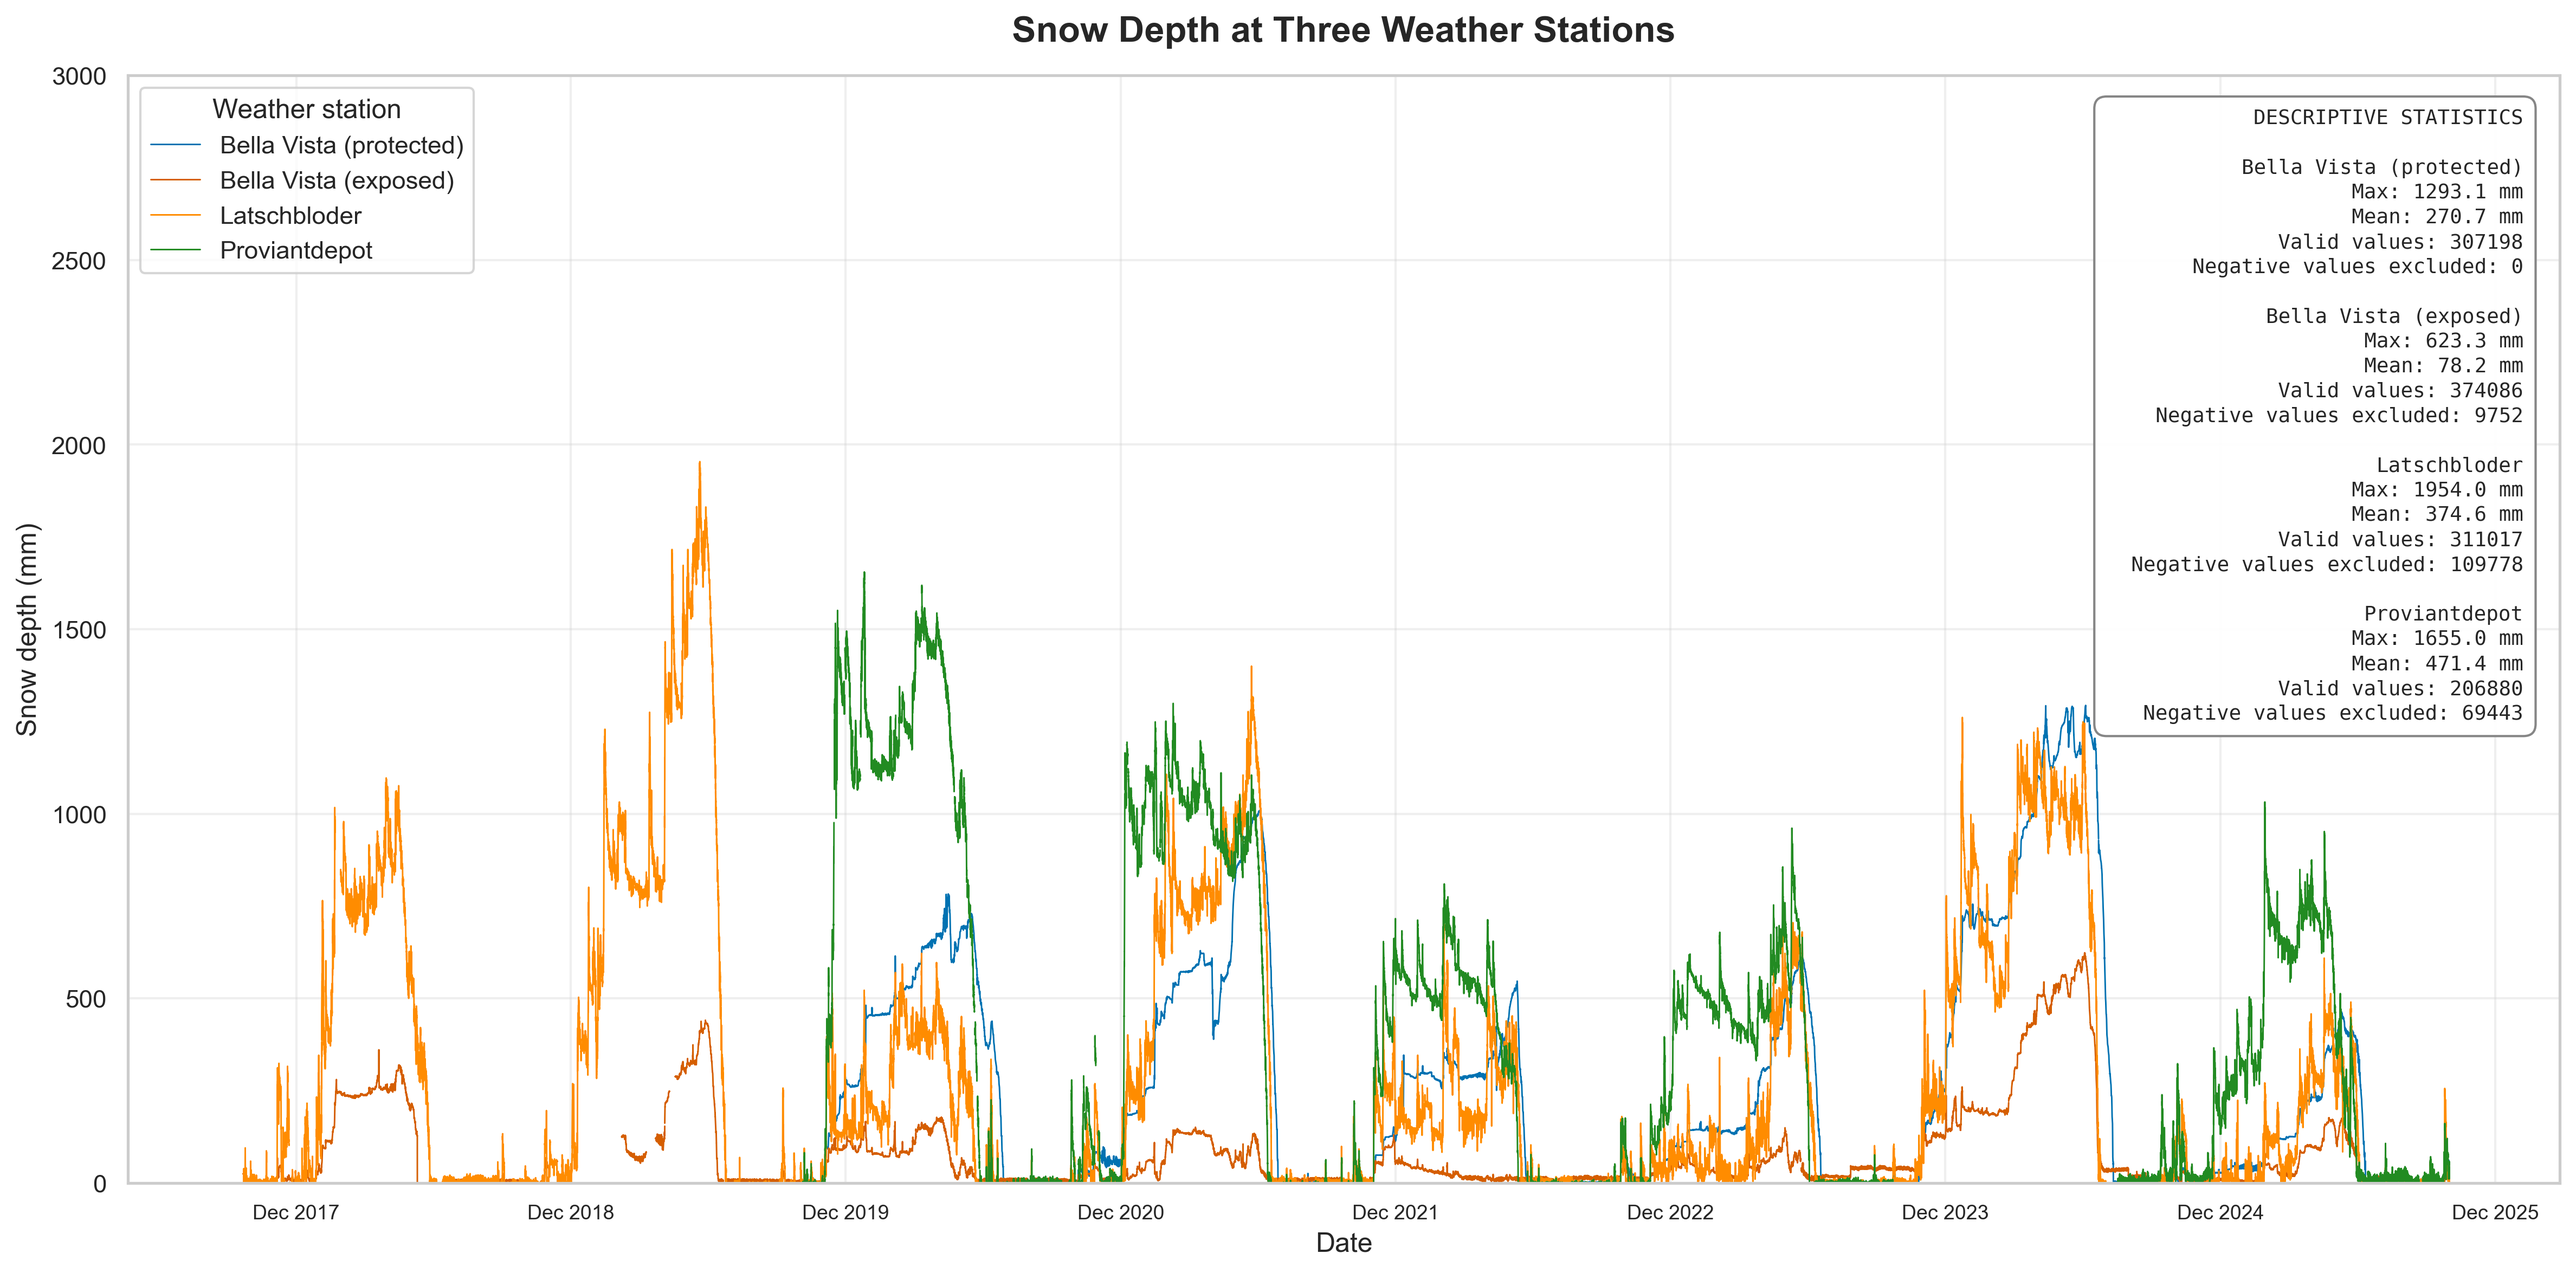
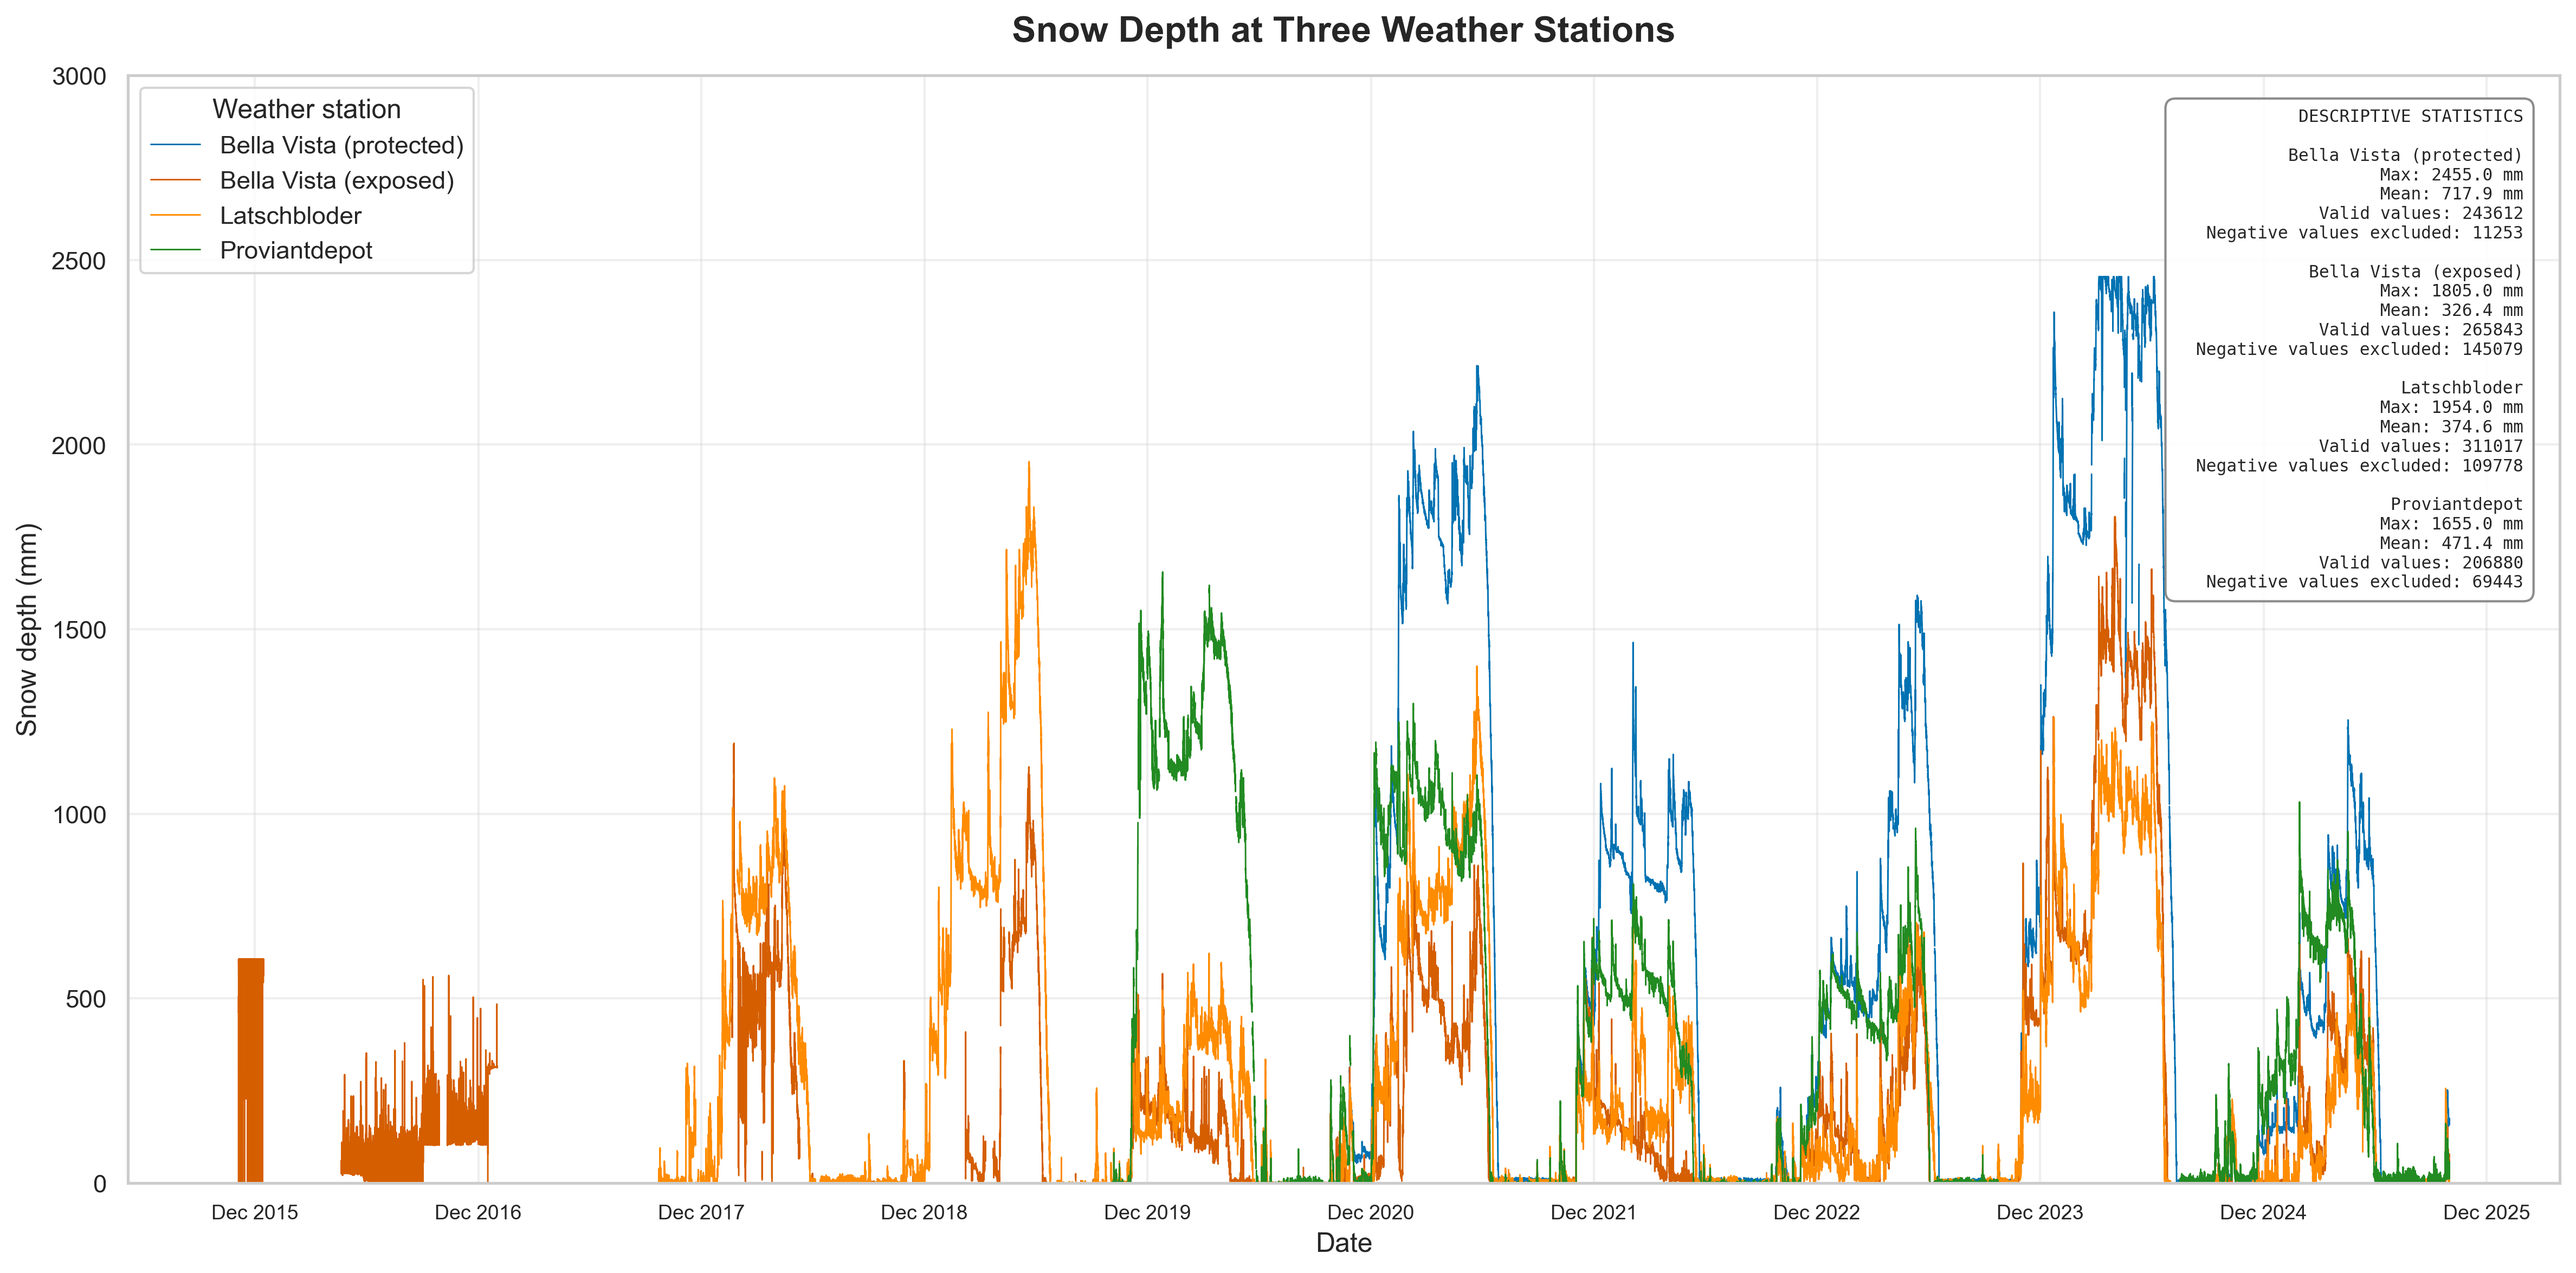
fehler behoben beim Dateneinlesen

diff --git a/test.py b/test.py
@@ -1,0 +1,336 @@
+
+# ============================================================
+# SH-Analysis: Bella Vista (exposed), 2015-2016
+#
+# - Analyses snow depth for the years 2015 and 2016 only
+# - Reads the CSV file from the input directory
+# - Creates an output folder for generated files
+# - Saves the figure as a high-resolution PNG
+# - Parses timestamps and validates measurement columns
+# - Handles duplicate timestamps transparently
+# - Excludes negative measurements
+# - Calculates descriptive statistics for 2015-2016 only
+# - Handles data gaps by interrupting plotted lines
+# - Supports timestamps with and without milliseconds
+# - Plots the snow-depth time series
+# - Displays a compact horizontal statistics box
+# ============================================================
+
+import pandas as pd
+import matplotlib.pyplot as plt
+import matplotlib.dates as mdates
+import seaborn as sns
+from pathlib import Path
+
+# ==================================================
+# 1. SETTINGS
+# ==================================================
+
+sns.set_theme(style="whitegrid")
+
+# Directory containing this Python script
+BASE_DIR = Path(__file__).resolve().parent
+
+# Input and output directories
+DATA_DIR = BASE_DIR / "input"
+OUTPUT_DIR = BASE_DIR / "output"
+OUTPUT_DIR.mkdir(parents=True, exist_ok=True)
+
+TIME_COL = "Date and time"
+
+# Analysis period: 2015 and 2016
+START_DATE = pd.Timestamp("2015-01-01")
+END_DATE = pd.Timestamp("2017-01-01")  # Exclusive
+
+# Expected measurement interval: 10 minutes.
+# Lines are interrupted if the gap exceeds 20 minutes.
+MAX_GAP = pd.Timedelta(minutes=20)
+
+stations = {
+    "Bella Vista (exposed)": {
+        "file": "1_BellaVista_10min_2015-2025.csv",
+        "column": "USH8 snow depth (mm)",
+        "color": "#D55E00",
+    },
+}
+
+
+# ==================================================
+# 2. LOAD, CLEAN AND FILTER DATA
+# ==================================================
+
+data = {}
+statistics = {}
+
+for station, settings in stations.items():
+
+    file_path = DATA_DIR / settings["file"]
+
+    if not file_path.exists():
+        raise FileNotFoundError(
+            f"Input file not found: {file_path}"
+        )
+
+    df = pd.read_csv(file_path)
+
+    # Remove whitespace from column names
+    df.columns = df.columns.str.strip()
+
+    # Check required columns
+    required = [TIME_COL, settings["column"]]
+
+    missing = [
+        col for col in required
+        if col not in df.columns
+    ]
+
+    if missing:
+        raise ValueError(
+            f"{station}: missing columns {missing}\n"
+            f"Available columns: {df.columns.tolist()}"
+        )
+
+    snow_col = settings["column"]
+
+    # --------------------------------------------------
+    # 2.1 Convert timestamps and measurements
+    # --------------------------------------------------
+
+    df[TIME_COL] = pd.to_datetime(
+        df[TIME_COL].astype(str).str.strip(),
+        format="mixed",
+        errors="coerce",
+    )
+
+    df[snow_col] = pd.to_numeric(
+        df[snow_col],
+        errors="coerce",
+    )
+
+    # Count invalid timestamps before removing them
+    invalid_timestamps = int(df[TIME_COL].isna().sum())
+
+    # Remove rows without valid timestamps
+    df = df.dropna(subset=[TIME_COL])
+
+    # --------------------------------------------------
+    # 2.2 Filter to 2015-2016
+    # --------------------------------------------------
+
+    df = df.loc[
+        (df[TIME_COL] >= START_DATE)
+        & (df[TIME_COL] < END_DATE)
+    ].copy()
+
+    # Sort chronologically
+    df = df.sort_values(TIME_COL)
+
+    # Handle duplicate timestamps transparently:
+    # retain the first record for each timestamp
+    duplicate_count = int(
+        df[TIME_COL].duplicated(keep="first").sum()
+    )
+
+    df = df.drop_duplicates(
+        subset=TIME_COL,
+        keep="first",
+    )
+
+    # Set timestamps as index
+    df = df.set_index(TIME_COL)
+
+    # --------------------------------------------------
+    # 2.3 Remove negative snow-depth values
+    # --------------------------------------------------
+
+    negative_count = int((df[snow_col] < 0).sum())
+
+    # Replace negative measurements with NaN
+    # so that they are excluded from statistics and plotting
+    df.loc[df[snow_col] < 0, snow_col] = float("nan")
+
+    snow = df[snow_col]
+
+    # Store filtered and cleaned data
+    data[station] = df
+
+    # --------------------------------------------------
+    # 2.4 Calculate statistics for 2015-2016 only
+    # --------------------------------------------------
+
+    statistics[station] = {
+        "max": snow.max(),
+        "mean": snow.mean(),
+        "valid": int(snow.notna().sum()),
+        "missing": int(snow.isna().sum()),
+        "negative_removed": negative_count,
+        "invalid_timestamps": invalid_timestamps,
+        "duplicates_removed": duplicate_count,
+    }
+
+    # --------------------------------------------------
+    # 2.5 Print data-quality report
+    # --------------------------------------------------
+
+    print(f"\n{'=' * 55}")
+    print(station)
+    print("Analysis period: 2015-01-01 to 2016-12-31")
+    print(f"{'=' * 55}")
+
+    if not df.empty:
+        print(
+            "Available period:",
+            df.index.min(),
+            "to",
+            df.index.max(),
+        )
+    else:
+        print("No records found in the selected period.")
+
+    print("Records after filtering:", len(df))
+    print("Invalid timestamps removed:", invalid_timestamps)
+    print("Duplicate timestamps removed:", duplicate_count)
+    print("Negative snow-depth values excluded:", negative_count)
+    print("Valid snow-depth values:", snow.notna().sum())
+    print("Missing or invalid snow-depth values:", snow.isna().sum())
+
+    if snow.notna().any():
+        print(f"Maximum snow depth: {snow.max():.1f} mm")
+        print(f"Mean snow depth: {snow.mean():.1f} mm")
+    else:
+        print("No valid snow-depth values available.")
+
+
+# ==================================================
+# 3. CREATE TIME-SERIES PLOT
+# ==================================================
+
+fig, ax = plt.subplots(figsize=(16, 8))
+
+for station, df in data.items():
+
+    settings = stations[station]
+    snow_col = settings["column"]
+
+    snow = df[snow_col].copy()
+
+    # Calculate time differences between consecutive records
+    time_gap = df.index.to_series().diff()
+
+    # Interrupt lines after gaps exceeding MAX_GAP
+    snow.loc[time_gap > MAX_GAP] = float("nan")
+
+    # Plot the time series
+    ax.plot(
+        df.index,
+        snow,
+        color=settings["color"],
+        linewidth=0.7,
+        label=station,
+    )
+
+# --------------------------------------------------
+# 3.1 Titles and axis labels
+# --------------------------------------------------
+
+ax.set_title(
+    "Snow Depth at Bella Vista (exposed), 2015-2016",
+    fontsize=16,
+    fontweight="bold",
+    pad=15,
+)
+
+ax.set_xlabel("Date", fontsize=12)
+ax.set_ylabel("Snow depth (mm)", fontsize=12)
+
+# Keep the original y-axis range
+ax.set_ylim(0, 3000)
+
+# Restrict the x-axis to the selected period
+ax.set_xlim(START_DATE, END_DATE)
+
+# Display dates every three months
+ax.xaxis.set_major_locator(
+    mdates.MonthLocator(bymonth=[1, 4, 7, 10])
+)
+
+ax.xaxis.set_major_formatter(
+    mdates.DateFormatter("%b %Y")
+)
+
+ax.tick_params(axis="x", labelsize=9)
+
+ax.legend(
+    loc="upper left",
+    title="Weather station",
+    frameon=True,
+)
+
+ax.grid(True, alpha=0.3)
+
+
+# ==================================================
+# 4. COMPACT HORIZONTAL STATISTICS BOX
+# ==================================================
+
+values = statistics["Bella Vista (exposed)"]
+
+max_text = (
+    f"{values['max']:.1f} mm"
+    if pd.notna(values["max"])
+    else "No valid data"
+)
+
+mean_text = (
+    f"{values['mean']:.1f} mm"
+    if pd.notna(values["mean"])
+    else "No valid data"
+)
+
+# Arrange the main statistics horizontally
+stats_text = (
+    f"Max: {max_text}   |   "
+    f"Mean: {mean_text}   |   "
+    f"Valid: {values['valid']:,}   |   "
+    f"Excluded negative: {values['negative_removed']:,}"
+)
+
+# Place the box in the upper-right corner
+ax.text(
+    0.985,
+    0.97,
+    stats_text,
+    transform=ax.transAxes,
+    ha="right",
+    va="top",
+    fontsize=8,
+    family="monospace",
+    bbox=dict(
+        boxstyle="round,pad=0.4",
+        facecolor="white",
+        edgecolor="grey",
+        alpha=0.9,
+    ),
+)
+
+
+# ==================================================
+# 5. SAVE AND DISPLAY
+# ==================================================
+
+fig.tight_layout()
+
+output_file = (
+    OUTPUT_DIR
+    / "snow_depth_BellaVista_2015-2016.png"
+)
+
+fig.savefig(
+    output_file,
+    dpi=300,
+    bbox_inches="tight",
+)
+
+plt.show()
+
+print("\nPlot saved to:", output_file)

diff --git a/Schneehöhe.py b/Schneehöhe.py
@@ -47,13 +47,13 @@ MAX_GAP = pd.Timedelta(minutes=20)
 stations = {
       "Bella Vista (protected)": {
             "file": "1_BellaVista_10min_2015-2025.csv",
-            "column": "SSG-2 snow water equivalent II (mm)",
+            "column": "USH9 snow depth II (mm)",
             "color": "#0072B2",
         },
       
         "Bella Vista (exposed)": {
             "file": "1_BellaVista_10min_2015-2025.csv",
-            "column": "Snow pillow snow water equivalent (mm)",
+            "column": "USH8 snow depth (mm)",
             "color": "#D55E00",
         },
         
@@ -297,17 +297,16 @@ ax.text(
     transform=ax.transAxes,
     ha="right",
     va="top",
-    fontsize=9,
+    fontsize=7.5,
     family="monospace",
-    linespacing=1.35,
+    linespacing=1.2,
     bbox=dict(
         boxstyle="round,pad=0.6",
         facecolor="white",
         edgecolor="grey",
-        alpha=0.95,
+        alpha=0.9,
     ),
 )
-
 
 # ==================================================
 # 5. SAVE AND DISPLAY
